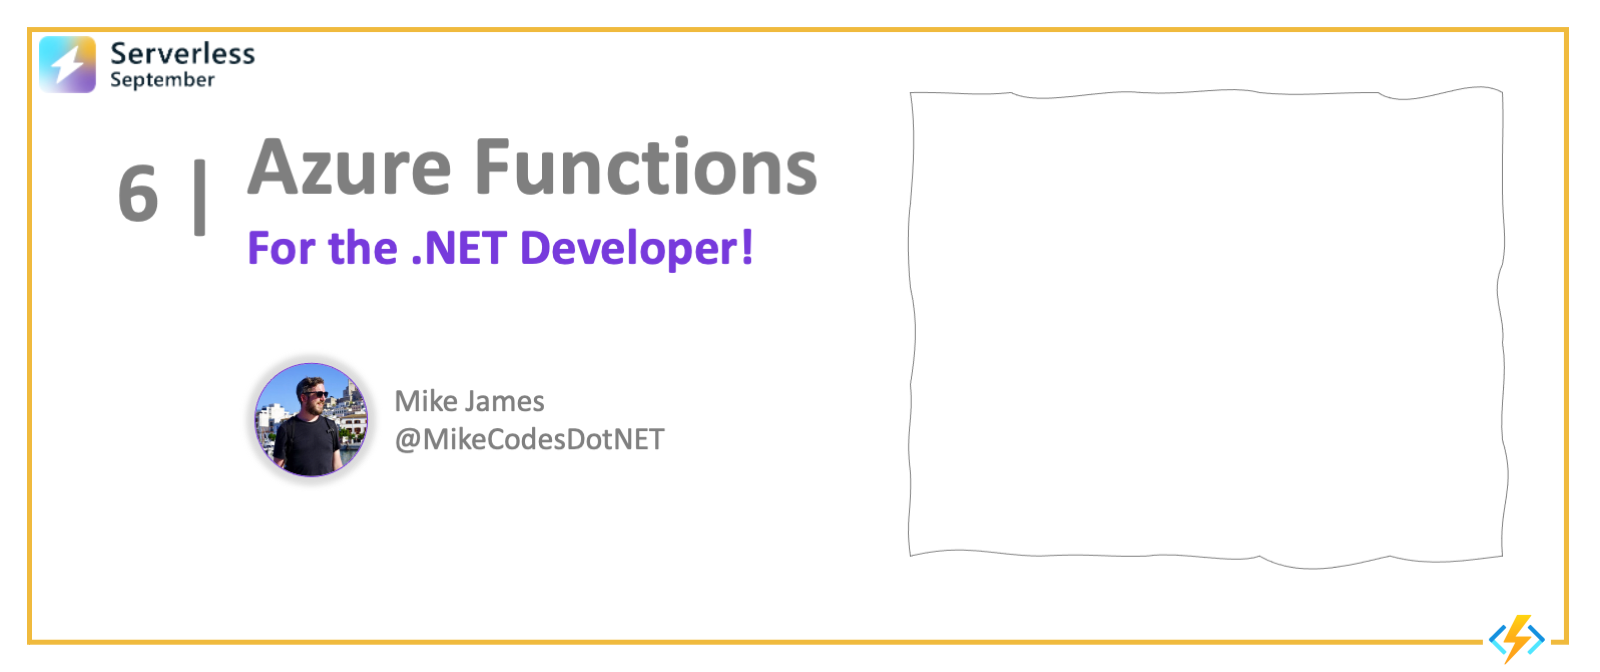
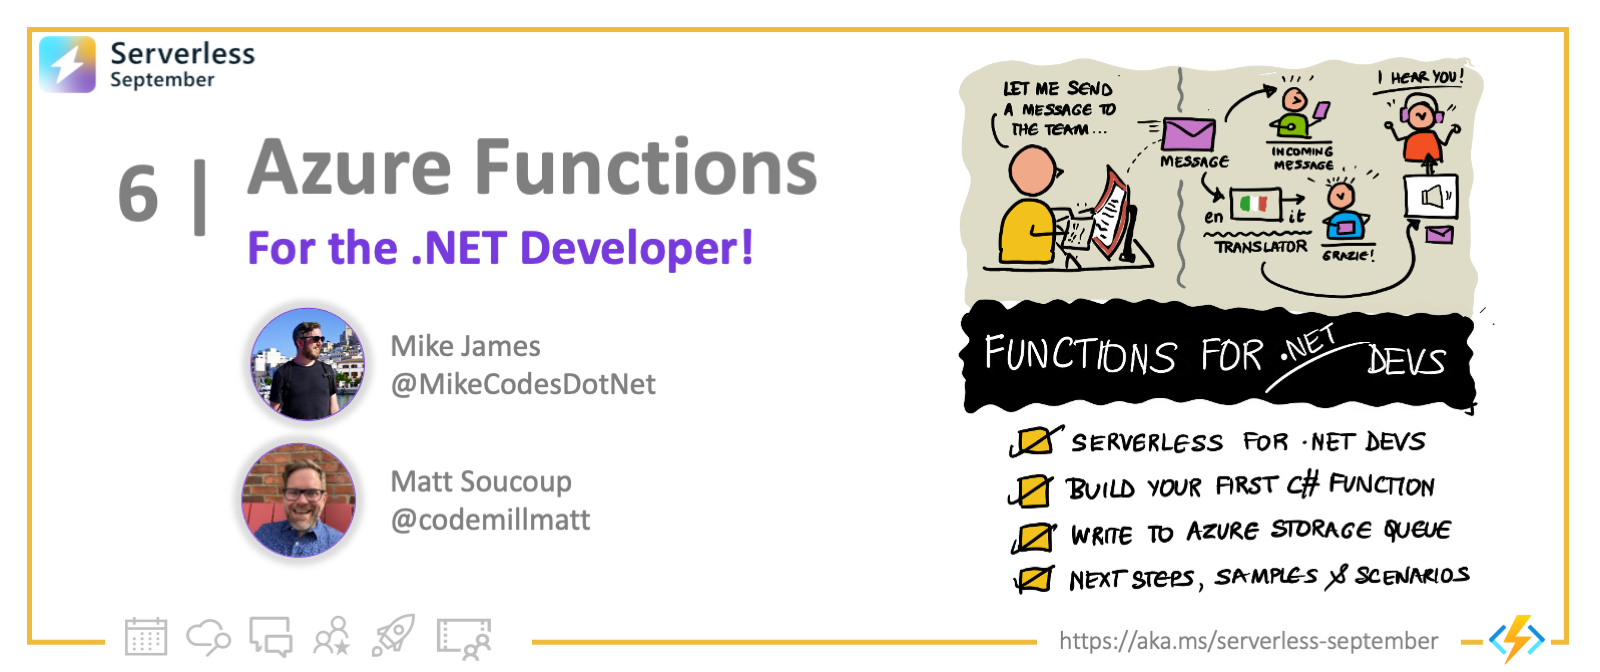
Post #06 / .NET Added

diff --git a/website/blog/2022-09-06/index.md b/website/blog/2022-09-06/index.md
@@ -1,15 +1,15 @@
 ---
 slug: 06-functions-dotnet
 title: 06. Functions for .NET Devs
-authors: [mike]
+authors: [mike, matt]
 draft: true
 hide_table_of_contents: false
 toc_min_heading_level: 2
 toc_max_heading_level: 3
 keywords: [azure, functions, serverless, concepts]
 image: ./img/banner.png
-description: "Introduction to Azure Functions, from core concepts to hello world!" 
-tags: [serverless-september, 30-days-of-serverless, serverless-hacks, zero-to-hero, ask-the-expert, azure-functions, azure-container-apps, azure-event-grid, azure-logic-apps, serverless-e2e]
+description: "#30DaysOfServerless: Azure Functions for the .NET Developer" 
+tags: [serverless-september, 30-days-of-serverless,azure-functions, dotnet]
 ---
 
 <head>
@@ -39,29 +39,31 @@ The theme for this week is Azure Functions. Today we're going to talk about why 
 
 ## What We'll Cover
 
-* What is serverless computing? How does Azure Functions fit in?
+* What is serverless computing? 
+* How does Azure Functions fit in?
 * Let's build a simple Azure Function in .NET
+* Developer Guide, Samples & Scenarios
+* Exercise: 
 * Resources: For self-study!
 
 ![A banner image that has the title of this article with the author's photo and a drawing that summarizes the demo application.](./img/banner.png)
 
 ---
 
-The leaves are changing colors and there's a chill in the air, or for those lucky folks in the Southern Hemisphere, the leaves are budding and a warmth is in the air. Either way, that can only mean one thing - it's Serverless September!
+The leaves are changing colors and there's a chill in the air, or for those lucky folks in the Southern Hemisphere, the leaves are budding and a warmth is in the air. Either way, that can only mean one thing - it's **Serverless September!🍂** So today, we're going to take a look at Azure Functions - what they are, and _why they're a great fit for .NET developers_.
 
-Today we're going to take a look at Azure Functions, what they are, and why they're a great fit for .NET developers.
 
 ## What is serverless computing?
 
-For developers, serverless computing means you write highly compact individual functions that do one thing - and run in the cloud. These functions are triggered by some external event. That event could be a record being inserted into a database, a file uploaded into BLOB storage, a timer interval elapsed, or even a simple HTTP request.
+For developers, serverless computing means you write highly compact individual functions that do one thing - and run in the cloud. These functions [are triggered by some external event](https://docs.microsoft.com/en-us/azure/azure-functions/functions-triggers-bindings?tabs=csharp). That event could be a record being inserted into a database, a file uploaded into BLOB storage, a timer interval elapsed, or even a simple HTTP request.
 
-But... servers are still definitely involved! What has changed - from other types of cloud computing - is that the idea and ownership of the server has been abstracted away.
+But... servers are still definitely involved! What has changed from other types of cloud computing is that the idea and **ownership of the server** has been abstracted away.
 
-A lot of the time you'll hear folks refer to this as Functions as a Service or FaaS. The defining characteristic is all you need to do is put together your application logic - and your code is going to be invoked in response to events - and the cloud provider takes care of everything else. You literally get to focus on only the business logic you need to run in response to something of interest - no worries about hosting.
+A lot of the time you'll hear folks refer to this as [Functions as a Service or FaaS](/blog/02-functions-intro). The defining characteristic is all you need to do is put together your application logic. Your code is going to be invoked in response to events - and the cloud provider takes care of everything else. You literally get to focus on only the business logic you need to run in response to something of interest - **no worries about hosting**.
 
 You do not need to worry about wiring up the plumbing between the service that originates the event and the serverless runtime environment. The cloud provider will handle the mechanism to call your function in response to whatever event you chose to have the function react to. And it passes along any data that is relevant to the event to your code.
 
-And here's a really neat thing. You only pay for the time the serverless function is running. So, if you have a function that is triggered by an HTTP request, and you rarely get requests to your function, you would rarely pay.
+And here's a really neat thing. **You only pay for the time the serverless function is running.** So, if you have a function that is triggered by an HTTP request, and you rarely get requests to your function, you would rarely pay.
 
 ### How does Azure Functions fit in?
 
@@ -73,7 +75,7 @@ And the Azure Functions runtime takes care of a ton of neat stuff for us, like p
 
 ## Let's build an Azure Function!
 
-### Scaffolding the Function out
+### Scaffold the Function
 
 Don't worry about having an Azure subscription or even being connected to the internet—we can develop and debug Azure Functions locally using either [Visual Studio](https://docs.microsoft.com/azure/azure-functions/functions-develop-vs?tabs=in-process) or [Visual Studio Code](https://docs.microsoft.com/azure/azure-functions/functions-develop-vs-code?tabs=csharp)!
 
@@ -83,45 +85,50 @@ For this example, I'm going to use Visual Studio Code to build up a Function tha
 
 The incoming HTTP call is the **trigger** and the message queue the Function writes to is an **output binding**. Let's have at it!
 
+:::info
 You do need to have some tools downloaded and installed to get started. First and foremost, you'll need [Visual Studio Code](https://code.visualstudio.com/). Then you'll need the [Azure Functions extension](https://marketplace.visualstudio.com/items?itemName=ms-azuretools.vscode-azurefunctions) for VS Code to do the development with. Finally, you'll need the [Azurite Emulator](https://docs.microsoft.com/azure/storage/common/storage-use-azurite?tabs=visual-studio-code) installed as well—this will allow us to write to a message queue locally.
 
 Oh! And of course, [.NET 6](https://docs.microsoft.com/dotnet/core/tools/)!
+:::
 
 Now with all of the tooling out of the way, let's write a Function!
 
-First, fire up Visual Studio Code. Then, from the command palette, type: `Azure Functions: Create New Project`
 
-![Screenshot of create a new function dialog in VS Code](img/1-create-new.png)
+1. Fire up Visual Studio Code. Then, from the command palette, type: `Azure Functions: Create New Project`
 
-Then follow the steps as to which directory you want to create the project in and which .NET runtime and language you want to use.
+  ![Screenshot of create a new function dialog in VS Code](img/1-create-new.png)
 
-![Screenshot of VS Code prompting which directory and language to use](img/2-language.png)
+2. Follow the steps as to which directory you want to create the project in and which .NET runtime and language you want to use.
 
-Pick **.NET 6** and **C#**.
+  ![Screenshot of VS Code prompting which directory and language to use](img/2-language.png)
 
-It will then prompt you to pick the folder in which your Function app resides and then select a template.
+3. Pick **.NET 6** and **C#**.
 
-![Screenshot of VS Code prompting you to pick the Function trigger template](img/3-selecttemplate.png)
+  It will then prompt you to pick the folder in which your Function app resides and then select a template.
 
-Pick the **HTTP trigger** template. And when prompted for a name, call it: **PostToAQueue**.
+  ![Screenshot of VS Code prompting you to pick the Function trigger template](img/3-selecttemplate.png)
 
-After giving it a namespace, it prompts for an authorization level—pick Anonymous.
+  Pick the **HTTP trigger** template. When prompted for a name, call it: **PostToAQueue**.
 
-Now we have a Function! Let's go ahead and hit F5 and see it run!
 
-> Note: After the templates have finished installing, you may get a prompt to download additional components—these are NuGet packages. Go ahead and do that.
+### Execute the Function Locally
 
-After it starts, you'll see the Azure Functions logo appear in the Terminal window and then URL the Function is located at.
+1. After giving it a namespace, it prompts for an authorization level—pick Anonymous. **Now we have a Function!** Let's go ahead and hit F5 and see it run!
+
+
+:::info
+After the templates have finished installing, you may get a prompt to download additional components—these are NuGet packages. Go ahead and do that.
+:::
+
+When it runs, you'll see the Azure Functions logo appear in the Terminal window with the URL the Function is located at. Copy that link.
 
 ![Screenshot of the Azure Functions local runtime starting up](img/5-start.png)
 
-In a web browser, we'll type in: `http://localhost:7071/api/PostToAQueue?name=Matt` and the Function will respond. You can even set breakpoints in Visual Studio Code and step through the code!
+ 2. Type the link into a browser, adding a `name` parameter as shown in this example: `http://localhost:7071/api/PostToAQueue?name=Matt`. The Function will respond with a message. You can even set breakpoints in Visual Studio Code and step through the code!
 
-### Writing to a queue
+### Write To Azure Storage Queue
 
-Next, we'll get this HTTP trigger Function to write to a local Azure Storage Queue.
-
-First we need to add the Storage NuGet package to our project. In the terminal, type:
+Next, we'll get this HTTP trigger Function to write to a local Azure Storage Queue. First we need to add the Storage NuGet package to our project. In the terminal, type:
 
 ```bash
 dotnet add package Microsoft.Azure.WebJobs.Extensions.Storage
@@ -175,7 +182,7 @@ Note the addition of the `messages` variable. This is telling the Function to us
 
 All the code is doing is pulling out the `name` from the query string, new'ing up a new `TheMessage` class and adding that to the `IAsyncCollector` variable.
 
-That will add the new message to the queue!
+**That will add the new message to the queue!**
 
 Make sure Azurite is started within VS Code (both the queue and blob emulators). Run the app and send the same GET request as before: `http://localhost:7071/api/PostToAQueue?name=Matt`.
 
@@ -187,6 +194,29 @@ If you have the Azure Storage Explorer installed, you can browse your local Queu
 
 We had a quick look at what Microsoft's serverless offering, Azure Functions, is comprised of. It's a full-featured FaaS offering that enables you to write functions in your language of choice, including reusing packages such as those from NuGet.
 
-A highlight of Azure Functions is the way they are triggered and bound. The triggers define how a Function starts, and bindings are akin to input and output parameters on it that correspond to external services. The best part is that the Azure Function runtime takes care of maintaining the connection to the external services so you don't have to worry about new'ing up or disposing of the connections yourself. We then wrote a quick Function that gets triggered off an HTTP request and then writes a query string parameters from that request into a local Azure Storage Queue.
+A highlight of Azure Functions is the way they are triggered and bound. The triggers define how a Function starts, and bindings are akin to input and output parameters on it that correspond to external services. The best part is that the Azure Function runtime takes care of maintaining the connection to the external services so you don't have to worry about new'ing up or disposing of the connections yourself. 
+
+We then wrote a quick Function that gets triggered off an HTTP request and then writes a query string parameters from that request into a local Azure Storage Queue.
+
+## What's Next
+
+So, where can you go from here? 
+
+Think about how you can **build real-world scenarios by integrating other Azure services**. For example, you could use serverless integrations to build a workflow where the input payload received using an HTTP Trigger, is now stored in Blob Storage (output binding), which in turn triggers another service (e.g., Cognitive Services) that processes the blob and returns an enhanced result. 
+
+_Keep an eye out for an update to this post where we walk through a scenario like this with code_. Check out the next section for some resources to help you get started on your own.
+
 
 ## Resources
+
+Start here for developer guidance in getting started with Azure Functions as a .NET/C# developer:
+
+* [Develop C# class library functions using Azure Functions](https://docs.microsoft.com/en-us/azure/azure-functions/functions-dotnet-class-library?tabs=v2%2Ccmd). 
+* [Using C# to develop .NET isolated process functions](https://docs.microsoft.com/en-us/azure/azure-functions/dotnet-isolated-process-guide).
+* [Quickstart: Create your first C# function in Azure using Visual Studio](https://docs.microsoft.com/en-us/azure/azure-functions/functions-create-your-first-function-visual-studio?tabs=in-process).
+
+Then learn about [supported Triggers and Bindings](https://docs.microsoft.com/en-us/azure/azure-functions/functions-triggers-bindings?tabs=csharp#bindings-code-examples?WT.mc_id=javascript-74010-cxa) for C#, with code snippets to show how they are used. 
+
+Finally, explore [Azure Functions samples for C#](https://docs.microsoft.com/en-us/samples/browse/?products=azure-functions&languages=csharp) and learn to implement serverless solutions. Examples include:
+ * Using Azure Functions to [check storage of Azure Cognitive Services on a schedule](https://docs.microsoft.com/en-us/samples/azure-samples/azure-search-dotnet-samples/check-storage-usage/) using Timer Triggers.
+* Using Azure Functions to [implement a ToDo Backend API](https://docs.microsoft.com/en-us/samples/azure-samples/azure-sql-binding-func-dotnet-todo/todo-backend-dotnet-azure-sql-bindings-azure-functions/) illustrating Azure SQL integration.

diff --git a/website/blog/zero-to-hero/2022-09-06-azurefunctions.md b/website/blog/zero-to-hero/2022-09-06-azurefunctions.md
@@ -40,8 +40,8 @@ Today, we have a special set of posts from our [Zero To Hero 🚀](/serverless-s
 
 ## What We'll Cover
  * What are Durable Entities
- * 101: Some Background
- * 102: A Programming Model
+ * Some Background
+ * A Programming Model
  * Entities for a Micro-Blogging Platform
 
 ![](./img/zero-to-hero-david.png)
